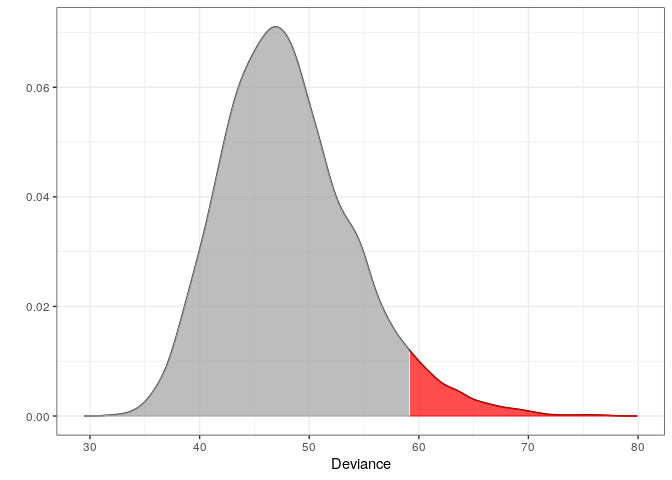
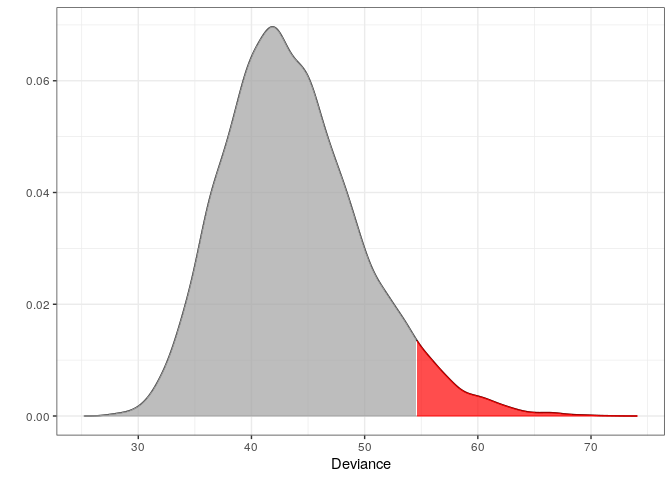
docs

diff --git a/docs/index.html b/docs/index.html
@@ -140,10 +140,10 @@
 <span class="co">#&gt;   Simulations: 10000 </span>
 <span class="co">#&gt;   Variables: 34 </span>
 <span class="co">#&gt;   Observations: 111 </span>
-<span class="co">#&gt;   Estimated mean: 42.53 </span>
-<span class="co">#&gt;   Estimated variance: 34.1 </span>
+<span class="co">#&gt;   Estimated mean: 42.58 </span>
+<span class="co">#&gt;   Estimated variance: 34.51 </span>
 <span class="co">#&gt;  --------------------------------</span>
-<span class="co">#&gt;   Critical value: 52.96809 </span>
+<span class="co">#&gt;   Critical value: 53.24268 </span>
 <span class="co">#&gt;   Alpha: 0.05 </span>
 <span class="co">#&gt;   &lt;outlier, outlier_model, list&gt; </span>
 <span class="co">#&gt;  --------------------------------</span>
@@ -179,9 +179,9 @@
 <span class="co">#&gt; [1] 51.05233</span></pre></div>
 <p>Retrieving the p-values:</p>
 <div class="sourceCode"><pre class="r"><span class="fu"><a href="reference/pval.html">pval</a></span>(<span class="no">m1</span>, <span class="no">dev1</span>)
-<span class="co">#&gt; [1] 0.0086</span>
+<span class="co">#&gt; [1] 0.0101</span>
 <span class="fu"><a href="reference/pval.html">pval</a></span>(<span class="no">m1</span>, <span class="no">dev2</span>)
-<span class="co">#&gt; [1] 0.0786</span></pre></div>
+<span class="co">#&gt; [1] 0.0848</span></pre></div>
 </div>
 <div id="example-2---testing-if-a-new-observation-is-an-outlier" class="section level2">
 <h2 class="hasAnchor">
@@ -200,12 +200,12 @@
 <span class="co">#&gt;   Simulations: 10000 </span>
 <span class="co">#&gt;   Variables: 34 </span>
 <span class="co">#&gt;   Observations: 112 </span>
-<span class="co">#&gt;   Estimated mean: 43.82 </span>
-<span class="co">#&gt;   Estimated variance: 35.84 </span>
+<span class="co">#&gt;   Estimated mean: 43.66 </span>
+<span class="co">#&gt;   Estimated variance: 36.86 </span>
 <span class="co">#&gt;  --------------------------------</span>
-<span class="co">#&gt;   Critical value: 54.5736 </span>
+<span class="co">#&gt;   Critical value: 54.64489 </span>
 <span class="co">#&gt;   Deviance: 77.92978 </span>
-<span class="co">#&gt;   P-value: 2e-04 </span>
+<span class="co">#&gt;   P-value: 0 </span>
 <span class="co">#&gt;   Alpha: 0.05 </span>
 <span class="co">#&gt;   &lt;novelty, outlier_model, list&gt; </span>
 <span class="co">#&gt;  --------------------------------</span>
@@ -214,7 +214,7 @@
 <p>Notice that m2 is of class ‘novelty’. The term <em>novelty detection</em> is sometimes used in the litterature when the goal is to verify if a new unseen observation is an outlier in a homogeneous dataset. Retrieving the test statistic and p-value for <code>z</code></p>
 <div class="sourceCode"><pre class="r"><span class="no">dz</span> <span class="kw">&lt;-</span> <span class="fu"><a href="reference/deviance.html">deviance</a></span>(<span class="no">m2</span>, <span class="no">z</span>)
 <span class="fu"><a href="reference/pval.html">pval</a></span>(<span class="no">m2</span>, <span class="no">dz</span>)
-<span class="co">#&gt; [1] 2e-04</span></pre></div>
+<span class="co">#&gt; [1] 0</span></pre></div>
 </div>
 <div id="how-to-cite" class="section level2">
 <h2 class="hasAnchor">

diff --git a/docs/articles/outlier_intro.html b/docs/articles/outlier_intro.html
@@ -140,24 +140,24 @@
 </tr></thead>
 <tbody>
 <tr class="odd">
-<td align="center">Admitted</td>
-<td align="center">Female</td>
-<td align="center">C</td>
+<td align="center">Rejected</td>
+<td align="center">Male</td>
+<td align="center">F</td>
 </tr>
 <tr class="even">
-<td align="center">Admitted</td>
-<td align="center">Female</td>
-<td align="center">C</td>
-</tr>
-<tr class="odd">
 <td align="center">Rejected</td>
 <td align="center">Female</td>
-<td align="center">E</td>
+<td align="center">D</td>
+</tr>
+<tr class="odd">
+<td align="center">Admitted</td>
+<td align="center">Male</td>
+<td align="center">C</td>
 </tr>
 <tr class="even">
 <td align="center">Admitted</td>
-<td align="center">Male</td>
-<td align="center">B</td>
+<td align="center">Female</td>
+<td align="center">A</td>
 </tr>
 <tr class="odd">
 <td align="center">Admitted</td>
@@ -165,9 +165,9 @@
 <td align="center">A</td>
 </tr>
 <tr class="even">
-<td align="center">Rejected</td>
-<td align="center">Female</td>
-<td align="center">D</td>
+<td align="center">Admitted</td>
+<td align="center">Male</td>
+<td align="center">B</td>
 </tr>
 </tbody>
 </table>

diff --git a/docs/articles/genetic_example.html b/docs/articles/genetic_example.html
@@ -164,12 +164,12 @@
 ##   Simulations: 10000 
 ##   Variables: 302 
 ##   Observations: 1008 
-##   Estimated mean: 483.71 
-##   Estimated variance: 326.8 
+##   Estimated mean: 482.84 
+##   Estimated variance: 324.11 
 ##  --------------------------------
-##   Critical value: 514.6182 
+##   Critical value: 513.0355 
 ##   Deviance: 508.0499 
-##   P-value: 0.0924 
+##   P-value: 0.082 
 ##   Alpha: 0.05 
 ##   &lt;mixed_outlier, novelty, outlier_model, list&gt; 
 ##  --------------------------------</code></pre>

diff --git a/README.md b/README.md
@@ -66,10 +66,10 @@ print(m1)
 #>   Simulations: 10000 
 #>   Variables: 34 
 #>   Observations: 111 
-#>   Estimated mean: 42.53 
-#>   Estimated variance: 34.1 
+#>   Estimated mean: 42.58 
+#>   Estimated variance: 34.51 
 #>  --------------------------------
-#>   Critical value: 52.96809 
+#>   Critical value: 53.24268 
 #>   Alpha: 0.05 
 #>   <outlier, outlier_model, list> 
 #>  --------------------------------
@@ -118,9 +118,9 @@ Retrieving the p-values:
 
 ``` r
 pval(m1, dev1)
-#> [1] 0.0086
+#> [1] 0.0101
 pval(m1, dev2)
-#> [1] 0.0786
+#> [1] 0.0848
 ```
 
 Example 2 - Testing if a new observation is an outlier
@@ -146,12 +146,12 @@ print(m2)
 #>   Simulations: 10000 
 #>   Variables: 34 
 #>   Observations: 112 
-#>   Estimated mean: 43.82 
-#>   Estimated variance: 35.84 
+#>   Estimated mean: 43.66 
+#>   Estimated variance: 36.86 
 #>  --------------------------------
-#>   Critical value: 54.5736 
+#>   Critical value: 54.64489 
 #>   Deviance: 77.92978 
-#>   P-value: 2e-04 
+#>   P-value: 0 
 #>   Alpha: 0.05 
 #>   <novelty, outlier_model, list> 
 #>  --------------------------------
@@ -165,7 +165,7 @@ Notice that m2 is of class 'novelty'. The term *novelty detection* is sometimes 
 ``` r
 dz <- deviance(m2, z)
 pval(m2, dz)
-#> [1] 2e-04
+#> [1] 0
 ```
 
 How To Cite
